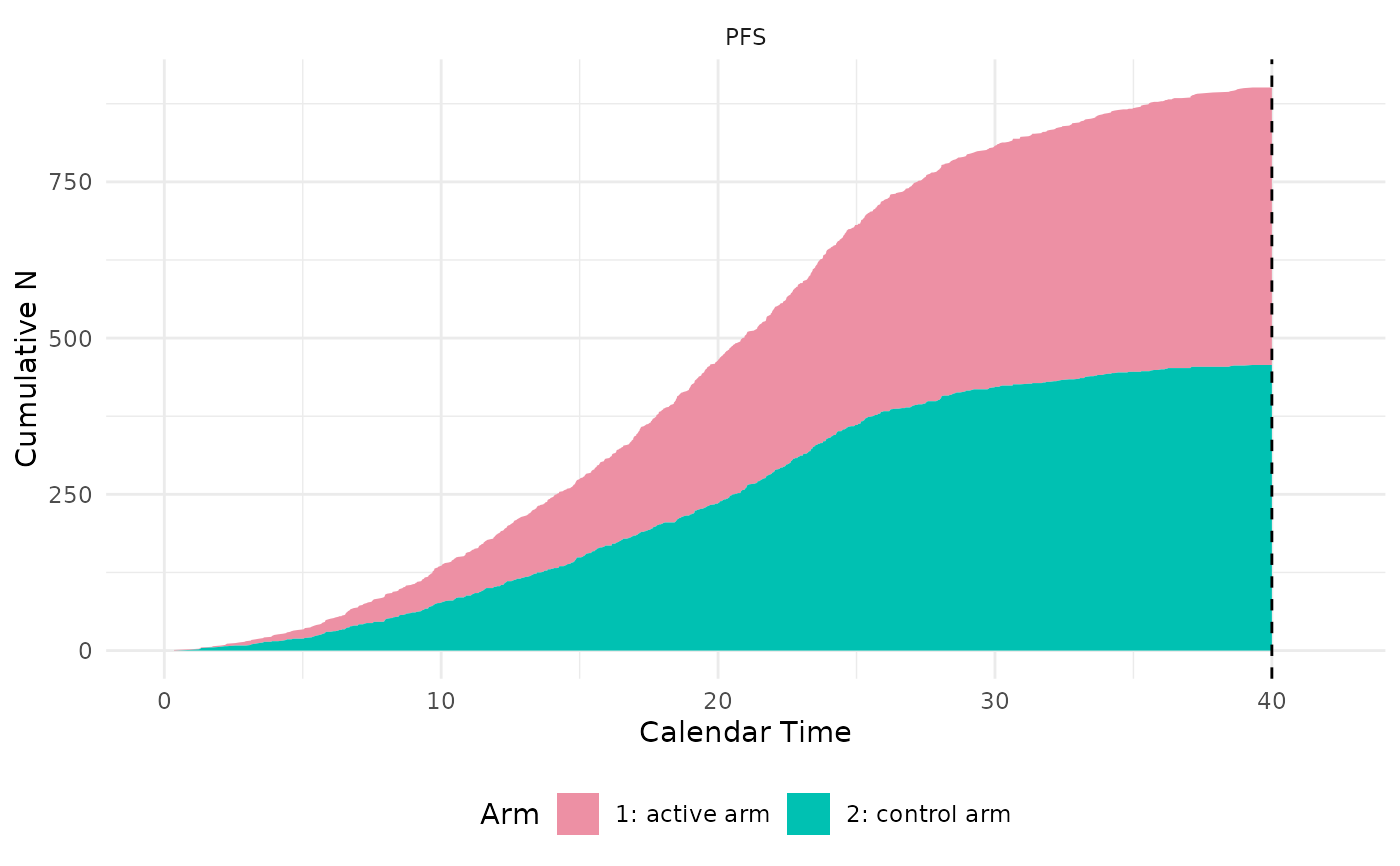
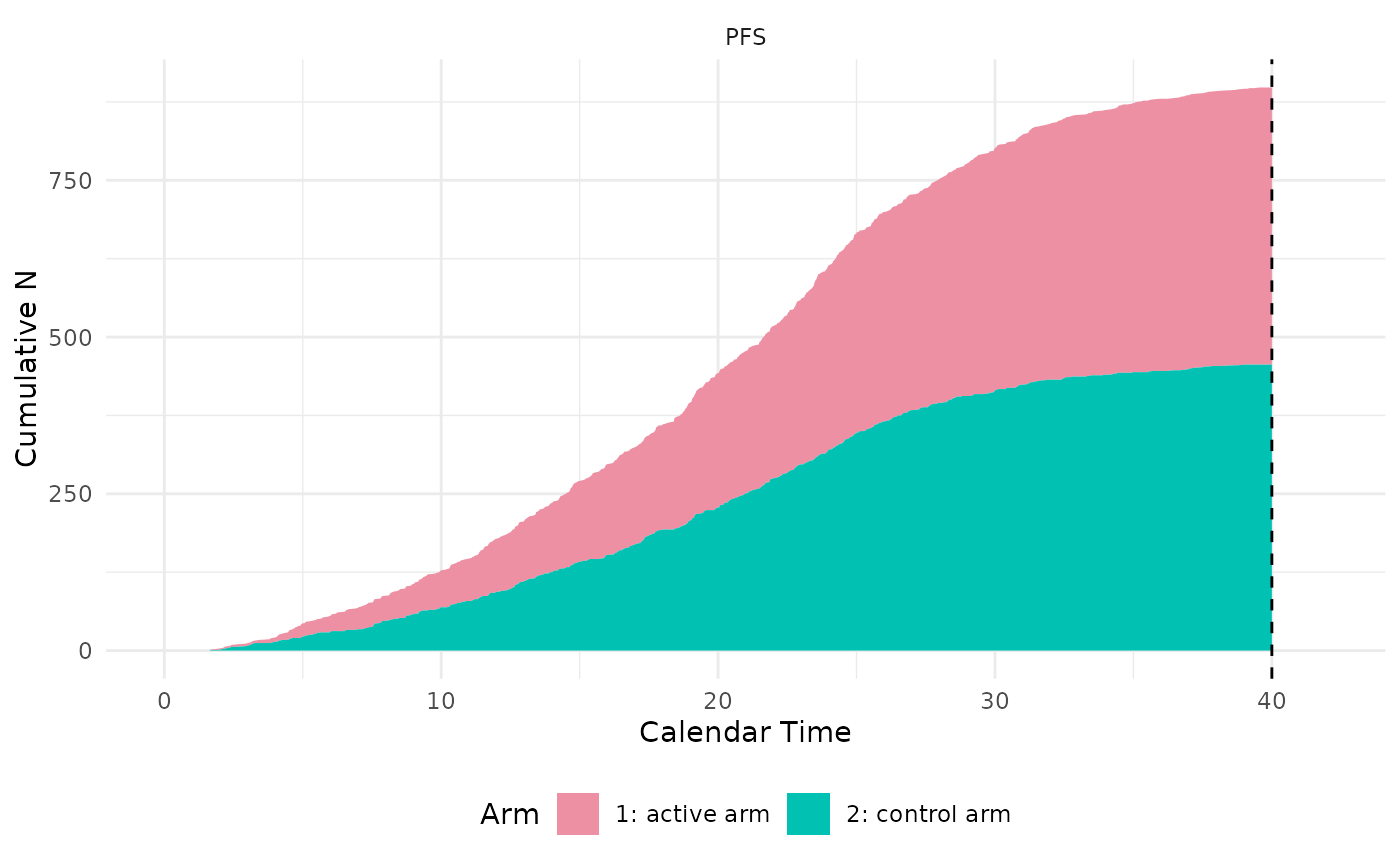
Deploying to gh-pages from @ zhangh12/TrialSimulator@26bafdaacb6edf377a0725bde25cbbf43064437f 🚀

diff --git a/reference/PiecewiseConstantExponentialRNG.html b/reference/PiecewiseConstantExponentialRNG.html
@@ -13,7 +13,7 @@ This distribution can be used to simulate delayed treatment effect."><meta prope
 
     <a class="navbar-brand me-2" href="../index.html">TrialSimulator</a>
 
-    <small class="nav-text text-muted me-auto" data-bs-toggle="tooltip" data-bs-placement="bottom" title="">1.18.1</small>
+    <small class="nav-text text-muted me-auto" data-bs-toggle="tooltip" data-bs-placement="bottom" title="">1.18.3</small>
 
 
     <button class="navbar-toggler" type="button" data-bs-toggle="collapse" data-bs-target="#navbar" aria-controls="navbar" aria-expanded="false" aria-label="Toggle navigation">
@@ -124,17 +124,17 @@ being censoring at the last <code>end_time</code> unless it is set to <code>Inf<
 <span class="r-in"><span>  piecewise_risk <span class="op">=</span> <span class="fu"><a href="https://rdrr.io/r/base/c.html" class="external-link">c</a></span><span class="op">(</span><span class="fl">1</span>, <span class="fl">1.01</span>, <span class="fl">0.381</span>, <span class="fl">0.150</span><span class="op">)</span> <span class="op">*</span> <span class="fu"><a href="https://rdrr.io/r/base/Log.html" class="external-link">exp</a></span><span class="op">(</span><span class="op">-</span><span class="fl">4.01</span><span class="op">)</span></span></span>
 <span class="r-in"><span><span class="op">)</span></span></span>
 <span class="r-in"><span><span class="fu">PiecewiseConstantExponentialRNG</span><span class="op">(</span><span class="fl">10</span>, <span class="va">risk</span>, <span class="st">'PFS'</span><span class="op">)</span></span></span>
-<span class="r-out co"><span class="r-pr">#&gt;</span>          PFS PFS_event</span>
-<span class="r-out co"><span class="r-pr">#&gt;</span> 1  26.462804         1</span>
-<span class="r-out co"><span class="r-pr">#&gt;</span> 2  52.000000         0</span>
-<span class="r-out co"><span class="r-pr">#&gt;</span> 3  42.063216         1</span>
-<span class="r-out co"><span class="r-pr">#&gt;</span> 4   1.671844         1</span>
-<span class="r-out co"><span class="r-pr">#&gt;</span> 5  38.115798         1</span>
-<span class="r-out co"><span class="r-pr">#&gt;</span> 6  52.000000         0</span>
-<span class="r-out co"><span class="r-pr">#&gt;</span> 7   3.954107         1</span>
-<span class="r-out co"><span class="r-pr">#&gt;</span> 8  52.000000         0</span>
-<span class="r-out co"><span class="r-pr">#&gt;</span> 9   6.316340         1</span>
-<span class="r-out co"><span class="r-pr">#&gt;</span> 10 52.000000         0</span>
+<span class="r-out co"><span class="r-pr">#&gt;</span>         PFS PFS_event</span>
+<span class="r-out co"><span class="r-pr">#&gt;</span> 1  52.00000         0</span>
+<span class="r-out co"><span class="r-pr">#&gt;</span> 2  52.00000         0</span>
+<span class="r-out co"><span class="r-pr">#&gt;</span> 3  52.00000         0</span>
+<span class="r-out co"><span class="r-pr">#&gt;</span> 4  52.00000         0</span>
+<span class="r-out co"><span class="r-pr">#&gt;</span> 5  52.00000         0</span>
+<span class="r-out co"><span class="r-pr">#&gt;</span> 6  52.00000         0</span>
+<span class="r-out co"><span class="r-pr">#&gt;</span> 7  52.00000         0</span>
+<span class="r-out co"><span class="r-pr">#&gt;</span> 8  52.00000         0</span>
+<span class="r-out co"><span class="r-pr">#&gt;</span> 9  35.19899         1</span>
+<span class="r-out co"><span class="r-pr">#&gt;</span> 10 52.00000         0</span>
 <span class="r-in"><span></span></span>
 </code></pre></div>
     </div>

diff --git a/articles/simulatePfsAndOsGumbel.html b/articles/simulatePfsAndOsGumbel.html
@@ -25,7 +25,7 @@
 
     <a class="navbar-brand me-2" href="../index.html">TrialSimulator</a>
 
-    <small class="nav-text text-muted me-auto" data-bs-toggle="tooltip" data-bs-placement="bottom" title="">1.18.1</small>
+    <small class="nav-text text-muted me-auto" data-bs-toggle="tooltip" data-bs-placement="bottom" title="">1.18.3</small>
 
 
     <button class="navbar-toggler" type="button" data-bs-toggle="collapse" data-bs-target="#navbar" aria-controls="navbar" aria-expanded="false" aria-label="Toggle navigation">
@@ -277,7 +277,7 @@ uncensored PFS and OS times.</p>
 <span>                       os_name <span class="op">=</span> <span class="st">'os'</span><span class="op">)</span></span>
 <span></span>
 <span><span class="va">pfs_and_os</span></span></code></pre></div>
[2 lines of base64/hex data omitted]
 </iframe>
 <p>For verification only, we can call the generator directly. This is
 not the recommended way to use <code>TrialSimulator</code> for
@@ -296,17 +296,17 @@ before adding enrollment, censoring, treatment arms, and analyses.</p>
 <span></span>
 <span><span class="fu"><a href="https://rdrr.io/r/utils/head.html" class="external-link">head</a></span><span class="op">(</span><span class="va">dat</span>, <span class="fl">2</span><span class="op">)</span></span>
 <span><span class="co">#&gt;        pfs       os pfs_event os_event</span></span>
-<span><span class="co">#&gt; 1 6.534539 6.534539         1        1</span></span>
-<span><span class="co">#&gt; 2 3.116476 3.116476         1        1</span></span></code></pre></div>
+<span><span class="co">#&gt; 1 2.744789 19.37430         1        1</span></span>
+<span><span class="co">#&gt; 2 5.342269 25.04203         1        1</span></span></code></pre></div>
 <p>The simulation should approximately recover the requested medians and
 Kendall’s tau between observed, uncensored PFS and OS times.</p>
 <div class="sourceCode" id="cb3"><pre class="downlit sourceCode r">
 <code class="sourceCode R"><span><span class="fu"><a href="https://rdrr.io/r/base/with.html" class="external-link">with</a></span><span class="op">(</span><span class="va">dat</span>, <span class="fu"><a href="https://rdrr.io/r/stats/median.html" class="external-link">median</a></span><span class="op">(</span><span class="va">pfs</span><span class="op">)</span><span class="op">)</span></span>
-<span><span class="co">#&gt; [1] 5.013457</span></span>
+<span><span class="co">#&gt; [1] 5.102113</span></span>
 <span><span class="fu"><a href="https://rdrr.io/r/base/with.html" class="external-link">with</a></span><span class="op">(</span><span class="va">dat</span>, <span class="fu"><a href="https://rdrr.io/r/stats/median.html" class="external-link">median</a></span><span class="op">(</span><span class="va">os</span><span class="op">)</span><span class="op">)</span></span>
-<span><span class="co">#&gt; [1] 11.35727</span></span>
+<span><span class="co">#&gt; [1] 11.28231</span></span>
 <span><span class="fu"><a href="https://rdrr.io/r/base/with.html" class="external-link">with</a></span><span class="op">(</span><span class="va">dat</span>, <span class="fu"><a href="https://rdrr.io/r/stats/cor.html" class="external-link">cor</a></span><span class="op">(</span><span class="va">pfs</span>, <span class="va">os</span>, method <span class="op">=</span> <span class="st">'kendall'</span><span class="op">)</span><span class="op">)</span></span>
-<span><span class="co">#&gt; [1] 0.6068072</span></span>
+<span><span class="co">#&gt; [1] 0.5954657</span></span>
 <span><span class="fu"><a href="https://rdrr.io/r/base/with.html" class="external-link">with</a></span><span class="op">(</span><span class="va">dat</span>, <span class="fu"><a href="https://rdrr.io/r/base/all.html" class="external-link">all</a></span><span class="op">(</span><span class="va">pfs</span> <span class="op">&lt;=</span> <span class="va">os</span><span class="op">)</span><span class="op">)</span></span>
 <span><span class="co">#&gt; [1] TRUE</span></span></code></pre></div>
 <p>Because this generator returns event indicators equal to 1 for both

diff --git a/reference/arm.html b/reference/arm.html
@@ -11,7 +11,7 @@ the concept of classes may consider using this wrapper directly."><meta property
 
     <a class="navbar-brand me-2" href="../index.html">TrialSimulator</a>
 
-    <small class="nav-text text-muted me-auto" data-bs-toggle="tooltip" data-bs-placement="bottom" title="">1.18.1</small>
+    <small class="nav-text text-muted me-auto" data-bs-toggle="tooltip" data-bs-placement="bottom" title="">1.18.3</small>
 
 
     <button class="navbar-toggler" type="button" data-bs-toggle="collapse" data-bs-target="#navbar" aria-controls="navbar" aria-expanded="false" aria-label="Toggle navigation">
@@ -109,12 +109,12 @@ specified in <code>...</code>.</p></dd>
 <span class="r-in"><span><span class="co">## it is NOT a recommended way to use the package in simulation</span></span></span>
 <span class="r-in"><span><span class="fu"><a href="https://rdrr.io/r/utils/head.html" class="external-link">head</a></span><span class="op">(</span><span class="va">placebo</span><span class="op">$</span><span class="fu">get_endpoints</span><span class="op">(</span><span class="op">)</span><span class="op">[[</span><span class="fl">1</span><span class="op">]</span><span class="op">]</span><span class="op">$</span><span class="fu">get_generator</span><span class="op">(</span><span class="op">)</span><span class="op">(</span>n <span class="op">=</span> <span class="fl">1e3</span><span class="op">)</span><span class="op">)</span></span></span>
 <span class="r-out co"><span class="r-pr">#&gt;</span>         pfs pfs_event</span>
-<span class="r-out co"><span class="r-pr">#&gt;</span> 1  2.673053         1</span>
-<span class="r-out co"><span class="r-pr">#&gt;</span> 2 12.836839         1</span>
-<span class="r-out co"><span class="r-pr">#&gt;</span> 3 52.000000         0</span>
-<span class="r-out co"><span class="r-pr">#&gt;</span> 4  2.721279         1</span>
-<span class="r-out co"><span class="r-pr">#&gt;</span> 5 23.335245         1</span>
-<span class="r-out co"><span class="r-pr">#&gt;</span> 6  1.244395         1</span>
+<span class="r-out co"><span class="r-pr">#&gt;</span> 1 52.000000         0</span>
+<span class="r-out co"><span class="r-pr">#&gt;</span> 2 14.733244         1</span>
+<span class="r-out co"><span class="r-pr">#&gt;</span> 3  8.311156         1</span>
+<span class="r-out co"><span class="r-pr">#&gt;</span> 4 52.000000         0</span>
+<span class="r-out co"><span class="r-pr">#&gt;</span> 5 52.000000         0</span>
+<span class="r-out co"><span class="r-pr">#&gt;</span> 6  6.027451         1</span>
 <span class="r-in"><span></span></span>
 <span class="r-in"><span><span class="co">## get name of endpoints in the arm</span></span></span>
 <span class="r-in"><span><span class="co">## for illustration only, NOT recommended</span></span></span>

diff --git a/authors.html b/authors.html
@@ -7,7 +7,7 @@
 
     <a class="navbar-brand me-2" href="index.html">TrialSimulator</a>
 
-    <small class="nav-text text-muted me-auto" data-bs-toggle="tooltip" data-bs-placement="bottom" title="">1.18.1</small>
+    <small class="nav-text text-muted me-auto" data-bs-toggle="tooltip" data-bs-placement="bottom" title="">1.18.3</small>
 
 
     <button class="navbar-toggler" type="button" data-bs-toggle="collapse" data-bs-target="#navbar" aria-controls="navbar" aria-expanded="false" aria-label="Toggle navigation">
@@ -63,13 +63,13 @@
 
       <p>Zhang H (2026).
 <em>TrialSimulator: Clinical Trial Simulator</em>.
-R package version 1.18.1, <a href="https://zhangh12.github.io/TrialSimulator/">https://zhangh12.github.io/TrialSimulator/</a>.
+R package version 1.18.3, <a href="https://zhangh12.github.io/TrialSimulator/">https://zhangh12.github.io/TrialSimulator/</a>.
 </p>
       <pre>@Manual{,
   title = {TrialSimulator: Clinical Trial Simulator},
   author = {Han Zhang},
   year = {2026},
-  note = {R package version 1.18.1},
+  note = {R package version 1.18.3},
   url = {https://zhangh12.github.io/TrialSimulator/},
 }</pre>
     </div>

diff --git a/reference/CorrelatedPfsAndOs2.html b/reference/CorrelatedPfsAndOs2.html
@@ -21,7 +21,7 @@ this vignette."><meta property="og:image" content="https://zhangh12.github.io/Tr
 
     <a class="navbar-brand me-2" href="../index.html">TrialSimulator</a>
 
-    <small class="nav-text text-muted me-auto" data-bs-toggle="tooltip" data-bs-placement="bottom" title="">1.18.1</small>
+    <small class="nav-text text-muted me-auto" data-bs-toggle="tooltip" data-bs-placement="bottom" title="">1.18.3</small>
 
 
     <button class="navbar-toggler" type="button" data-bs-toggle="collapse" data-bs-target="#navbar" aria-controls="navbar" aria-expanded="false" aria-label="Toggle navigation">
@@ -146,8 +146,8 @@ and <code>&lt;os_name&gt;_event</code>.</p>
 <span class="r-in"><span><span class="va">dat</span> <span class="op">&lt;-</span> <span class="va">pfs_and_os</span><span class="op">$</span><span class="fu">test_generator</span><span class="op">(</span>n <span class="op">=</span> <span class="fl">1e4</span><span class="op">)</span></span></span>
 <span class="r-in"><span><span class="fu"><a href="https://rdrr.io/r/stats/cor.html" class="external-link">cor</a></span><span class="op">(</span><span class="va">dat</span><span class="op">[</span>, <span class="fl">1</span><span class="op">:</span><span class="fl">2</span><span class="op">]</span>, method <span class="op">=</span> <span class="st">'kendall'</span><span class="op">)</span> <span class="co">## close to 0.6</span></span></span>
 <span class="r-out co"><span class="r-pr">#&gt;</span>           PFS        Os</span>
-<span class="r-out co"><span class="r-pr">#&gt;</span> PFS 1.0000000 0.6012212</span>
-<span class="r-out co"><span class="r-pr">#&gt;</span> Os  0.6012212 1.0000000</span>
+<span class="r-out co"><span class="r-pr">#&gt;</span> PFS 1.0000000 0.6055828</span>
+<span class="r-out co"><span class="r-pr">#&gt;</span> Os  0.6055828 1.0000000</span>
 <span class="r-in"><span></span></span>
 </code></pre></div>
     </div>

diff --git a/reference/controller.html b/reference/controller.html
@@ -21,7 +21,7 @@ functions. See vignettes of this package for more examples."><meta property="og:
 
     <a class="navbar-brand me-2" href="../index.html">TrialSimulator</a>
 
-    <small class="nav-text text-muted me-auto" data-bs-toggle="tooltip" data-bs-placement="bottom" title="">1.18.1</small>
+    <small class="nav-text text-muted me-auto" data-bs-toggle="tooltip" data-bs-placement="bottom" title="">1.18.3</small>
 
 
     <button class="navbar-toggler" type="button" data-bs-toggle="collapse" data-bs-target="#navbar" aria-controls="navbar" aria-expanded="false" aria-label="Toggle navigation">
@@ -118,7 +118,7 @@ functions. See vignettes of this package for more examples.</p>
 <span class="r-in"><span>               enroller <span class="op">=</span> <span class="va">StaggeredRecruiter</span>,</span></span>
 <span class="r-in"><span>               accrual_rate <span class="op">=</span> <span class="va">accrual_rate</span>,</span></span>
 <span class="r-in"><span>               dropout <span class="op">=</span> <span class="va">rweibull</span>, shape <span class="op">=</span> <span class="fl">2</span>, scale <span class="op">=</span> <span class="fl">38</span><span class="op">)</span></span></span>
-<span class="r-msg co"><span class="r-pr">#&gt;</span> Seed is not specified. TrialSimulator sets it to 976290685</span>
+<span class="r-msg co"><span class="r-pr">#&gt;</span> Seed is not specified. TrialSimulator sets it to 1379294730</span>
 <span class="r-in"><span></span></span>
 <span class="r-in"><span><span class="va">trial</span><span class="op">$</span><span class="fu">add_arms</span><span class="op">(</span>sample_ratio <span class="op">=</span> <span class="fu"><a href="https://rdrr.io/r/base/c.html" class="external-link">c</a></span><span class="op">(</span><span class="fl">1</span>, <span class="fl">1</span><span class="op">)</span>, <span class="va">control</span>, <span class="va">active</span><span class="op">)</span></span></span>
 <span class="r-msg co"><span class="r-pr">#&gt;</span> Arm(s) &lt;control arm, active arm&gt; are added to the trial. </span>
@@ -147,7 +147,7 @@ functions. See vignettes of this package for more examples.</p>
 <span class="r-msg co"><span class="r-pr">#&gt;</span> Locked data can be accessed in Trial$get_locked_data('final analysis'). </span>
 <span class="r-msg co"><span class="r-pr">#&gt;</span> Number of events at lock time: </span>
 <span class="r-msg co"><span class="r-pr">#&gt;</span>   PFS patient         arms</span>
-<span class="r-msg co"><span class="r-pr">#&gt;</span> 1 901    1000 c("activ....</span>
+<span class="r-msg co"><span class="r-pr">#&gt;</span> 1 898    1000 c("activ....</span>
 <span class="r-msg co"><span class="r-pr">#&gt;</span> </span>
 <span class="r-plt img"><img src="controller-1.png" alt="" width="700" height="433"></span>
 <span class="r-in"><span></span></span>

diff --git a/reference/DynamicRNGFunction.html b/reference/DynamicRNGFunction.html
@@ -13,7 +13,7 @@ changing to arguments of random number generator. See examples below."><meta pro
 
     <a class="navbar-brand me-2" href="../index.html">TrialSimulator</a>
 
-    <small class="nav-text text-muted me-auto" data-bs-toggle="tooltip" data-bs-placement="bottom" title="">1.18.1</small>
+    <small class="nav-text text-muted me-auto" data-bs-toggle="tooltip" data-bs-placement="bottom" title="">1.18.3</small>
 
 
     <button class="navbar-toggler" type="button" data-bs-toggle="collapse" data-bs-target="#navbar" aria-controls="navbar" aria-expanded="false" aria-label="Toggle navigation">
@@ -112,7 +112,7 @@ later. For example, <code>foo(n = 100, mean = -1)</code> will generate data from
 <span class="r-in"><span></span></span>
 <span class="r-in"><span><span class="va">y</span> <span class="op">&lt;-</span> <span class="fu">dfunc</span><span class="op">(</span><span class="fl">1e3</span>, mean <span class="op">=</span> <span class="fl">3.5</span><span class="op">)</span> <span class="co"># mean can be changed</span></span></span>
 <span class="r-in"><span><span class="fu"><a href="https://rdrr.io/r/base/mean.html" class="external-link">mean</a></span><span class="op">(</span><span class="va">y</span><span class="op">)</span></span></span>
-<span class="r-out co"><span class="r-pr">#&gt;</span> [1] 3.525356</span>
+<span class="r-out co"><span class="r-pr">#&gt;</span> [1] 3.630548</span>
 <span class="r-in"><span></span></span>
 <span class="r-in"><span><span class="kw"><a href="https://rdrr.io/r/base/try.html" class="external-link">try</a></span><span class="op">(</span><span class="va">z</span> <span class="op">&lt;-</span> <span class="fu">dfunc</span><span class="op">(</span><span class="fl">1e3</span>, sd <span class="op">=</span> <span class="fl">1</span><span class="op">)</span><span class="op">)</span> <span class="co"># error because sd is fixed in dfunc</span></span></span>
 <span class="r-out co"><span class="r-pr">#&gt;</span> Error in dfunc(1000, sd = 1) : Cannot override fixed arguments: sd</span>

diff --git a/404.html b/404.html
@@ -26,7 +26,7 @@
 
     <a class="navbar-brand me-2" href="https://zhangh12.github.io/TrialSimulator/index.html">TrialSimulator</a>
 
-    <small class="nav-text text-muted me-auto" data-bs-toggle="tooltip" data-bs-placement="bottom" title="">1.18.1</small>
+    <small class="nav-text text-muted me-auto" data-bs-toggle="tooltip" data-bs-placement="bottom" title="">1.18.3</small>
 
 
     <button class="navbar-toggler" type="button" data-bs-toggle="collapse" data-bs-target="#navbar" aria-controls="navbar" aria-expanded="false" aria-label="Toggle navigation">

diff --git a/LICENSE-text.html b/LICENSE-text.html
@@ -7,7 +7,7 @@
 
     <a class="navbar-brand me-2" href="index.html">TrialSimulator</a>
 
-    <small class="nav-text text-muted me-auto" data-bs-toggle="tooltip" data-bs-placement="bottom" title="">1.18.1</small>
+    <small class="nav-text text-muted me-auto" data-bs-toggle="tooltip" data-bs-placement="bottom" title="">1.18.3</small>
 
 
     <button class="navbar-toggler" type="button" data-bs-toggle="collapse" data-bs-target="#navbar" aria-controls="navbar" aria-expanded="false" aria-label="Toggle navigation">

diff --git a/LICENSE.html b/LICENSE.html
@@ -7,7 +7,7 @@
 
     <a class="navbar-brand me-2" href="index.html">TrialSimulator</a>
 
-    <small class="nav-text text-muted me-auto" data-bs-toggle="tooltip" data-bs-placement="bottom" title="">1.18.1</small>
+    <small class="nav-text text-muted me-auto" data-bs-toggle="tooltip" data-bs-placement="bottom" title="">1.18.3</small>
 
 
     <button class="navbar-toggler" type="button" data-bs-toggle="collapse" data-bs-target="#navbar" aria-controls="navbar" aria-expanded="false" aria-label="Toggle navigation">

diff --git a/articles/actionFunctions.html b/articles/actionFunctions.html
@@ -25,7 +25,7 @@
 
     <a class="navbar-brand me-2" href="../index.html">TrialSimulator</a>
 
-    <small class="nav-text text-muted me-auto" data-bs-toggle="tooltip" data-bs-placement="bottom" title="">1.18.1</small>
+    <small class="nav-text text-muted me-auto" data-bs-toggle="tooltip" data-bs-placement="bottom" title="">1.18.3</small>
 
 
     <button class="navbar-toggler" type="button" data-bs-toggle="collapse" data-bs-target="#navbar" aria-controls="navbar" aria-expanded="false" aria-label="Toggle navigation">

diff --git a/articles/adaptiveDesign.html b/articles/adaptiveDesign.html
@@ -25,7 +25,7 @@
 
     <a class="navbar-brand me-2" href="../index.html">TrialSimulator</a>
 
-    <small class="nav-text text-muted me-auto" data-bs-toggle="tooltip" data-bs-placement="bottom" title="">1.18.1</small>
+    <small class="nav-text text-muted me-auto" data-bs-toggle="tooltip" data-bs-placement="bottom" title="">1.18.3</small>
 
 
     <button class="navbar-toggler" type="button" data-bs-toggle="collapse" data-bs-target="#navbar" aria-controls="navbar" aria-expanded="false" aria-label="Toggle navigation">